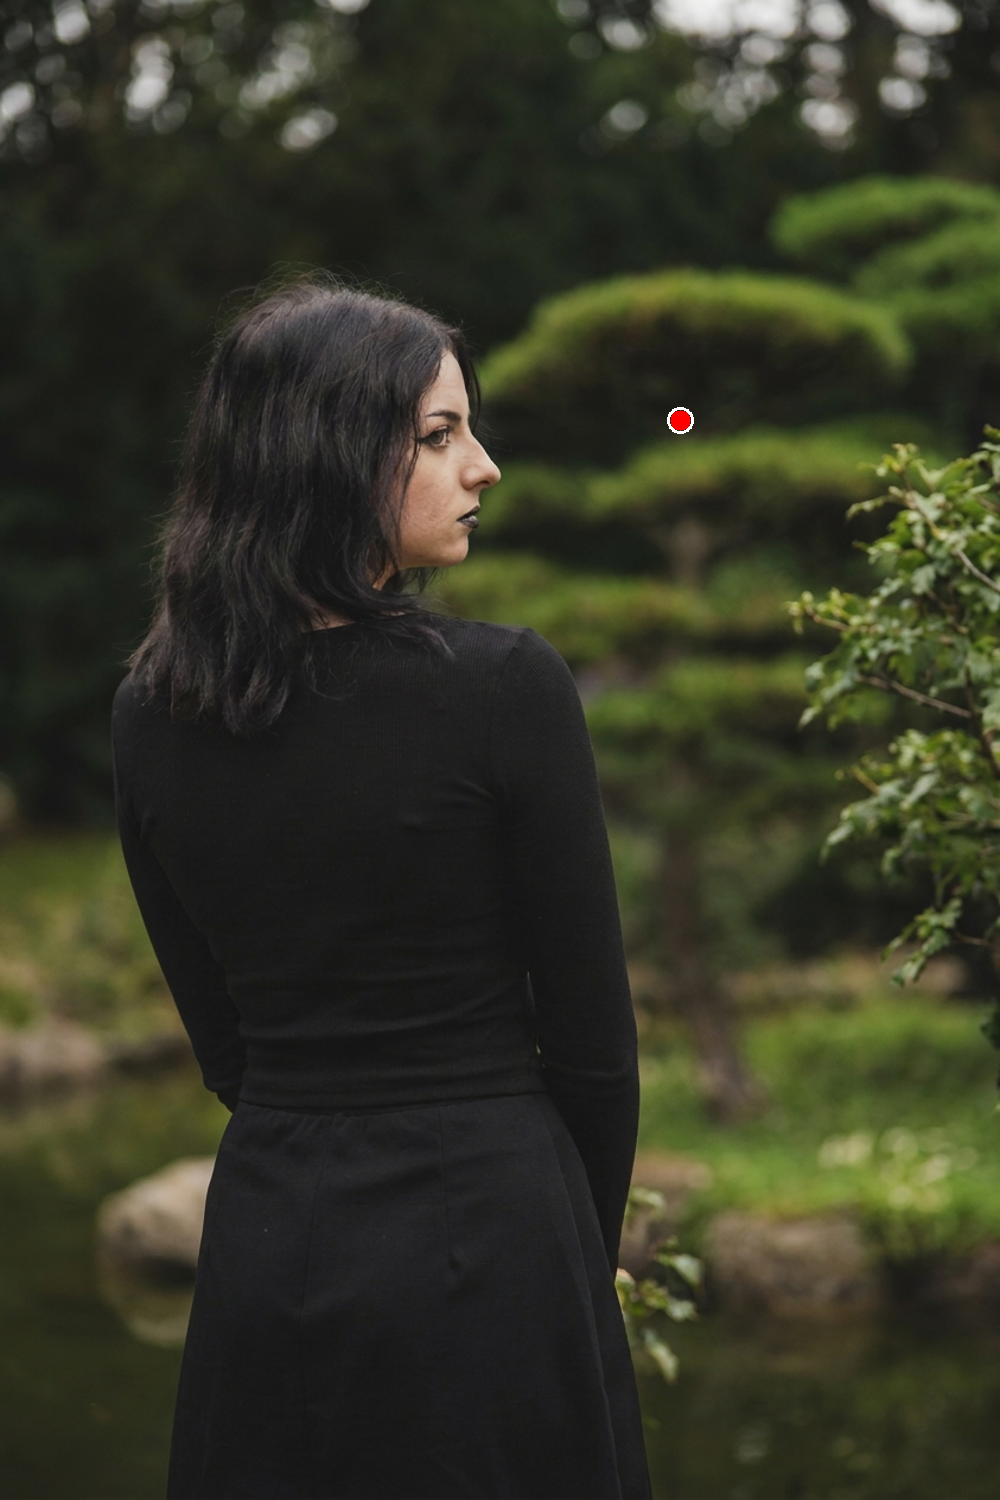
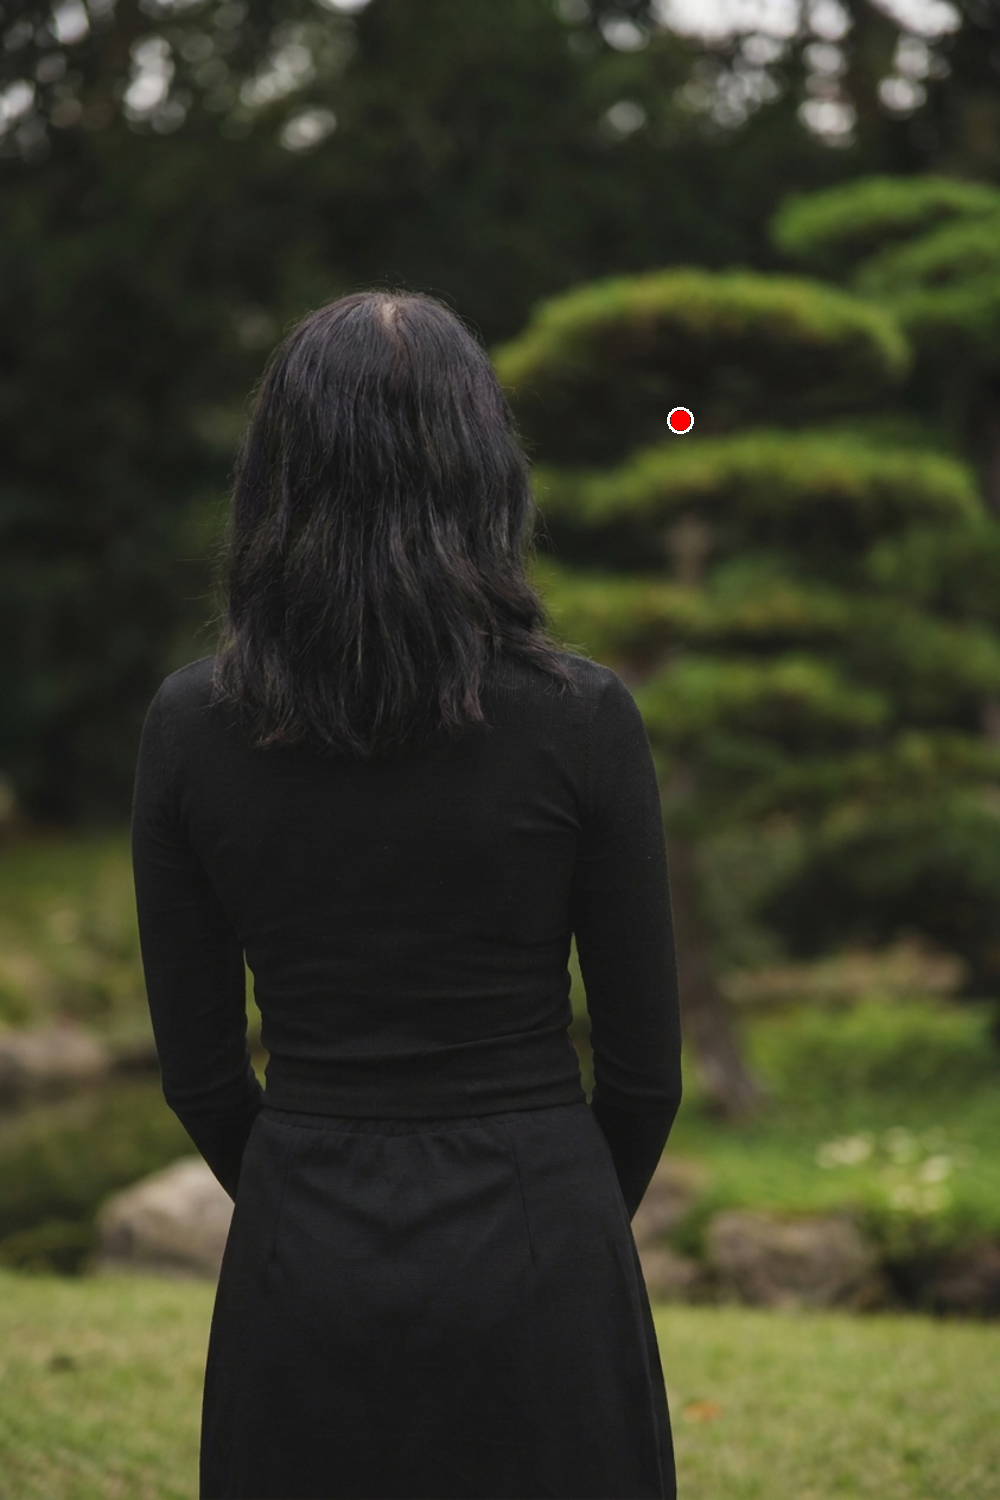
BEHIND-depth prompt now requires zero face visibility, not just a back-facing torso
Third revision of this clause: "back should face the camera" still let
Gemini turn the head sideways enough to show a profile. Now explicit that
the camera must see ONLY the back/crown of the head - no face, cheek, or
profile - matching what "the target is far behind them" should actually
look like. Verified against the depth-far ablation demo.

diff --git a/dataset_pipeline.py b/dataset_pipeline.py
@@ -266,14 +266,15 @@ def build_depth_aware_prompt(chosen_depth, person_depth, extra=""):
     )
     if rel == "BEHIND":
         prompt += (
-            "Because the target is so much farther away than the person, the only way "
-            "to actually look at it is to turn all the way around: the person must end "
-            "up with their BACK almost fully facing the camera, having rotated their "
-            "whole body away from its current orientation, with their head turned to "
-            "look toward the red dot, which now sits further ahead of them in this new "
-            "orientation, deeper into the scene. Do not just glance back over the "
-            "shoulder while staying mostly front-on to the camera — the body itself "
-            "must rotate away.\n"
+            "The target is so much farther away than the person that they must rotate "
+            "their ENTIRE head and body all the way around to face fully away from the "
+            "camera, looking straight ahead into the scene toward the target. The "
+            "camera must see ONLY the back/crown of their head and hair, and their full "
+            "back — absolutely NO part of their face, cheek, ear, or facial profile "
+            "should be visible. Do not turn the head sideways to glance back over the "
+            "shoulder; the whole body faces directly away from the camera, like someone "
+            "who has simply turned around to walk toward something in the distance and "
+            "is now seen entirely from behind.\n"
         )
     if extra:
         prompt += extra.strip() + "\n"

diff --git a/manual_process_path_e.py b/manual_process_path_e.py
@@ -224,14 +224,15 @@ def build_depth_aware_prompt(chosen_depth, person_depth, facing_away):
     )
     if rel == "BEHIND":
         prompt += (
-            "Because the target is so much farther away than the person, the only way "
-            "to actually look at it is to turn all the way around: the person must end "
-            "up with their BACK almost fully facing the camera, having rotated their "
-            "whole body away from its current orientation, with their head turned to "
-            "look toward the red dot, which now sits further ahead of them in this new "
-            "orientation, deeper into the scene. Do not just glance back over the "
-            "shoulder while staying mostly front-on to the camera — the body itself "
-            "must rotate away.\n"
+            "The target is so much farther away than the person that they must rotate "
+            "their ENTIRE head and body all the way around to face fully away from the "
+            "camera, looking straight ahead into the scene toward the target. The "
+            "camera must see ONLY the back/crown of their head and hair, and their full "
+            "back — absolutely NO part of their face, cheek, ear, or facial profile "
+            "should be visible. Do not turn the head sideways to glance back over the "
+            "shoulder; the whole body faces directly away from the camera, like someone "
+            "who has simply turned around to walk toward something in the distance and "
+            "is now seen entirely from behind.\n"
         )
     return prompt
 

diff --git a/README.md b/README.md
@@ -52,22 +52,22 @@ depth map — dark/purple = far, bright/yellow = near):
 | ![depth far result](assets/ablation/depth_far.png) | ![depth near result](assets/ablation/full.png) | ![no depth result](assets/ablation/no_depth_prompt.png) |
 
 Same 2D point, two clearly different outcomes: told the target is *far
-behind her*, she turns her whole body around — back almost fully to the
-camera — to look toward it; told the exact same screen position is *close,
-in front of her*, she only tilts her head/eyes up toward it, a smaller and
-less committed motion. Remove the depth image entirely and Gemini doesn't
-move her at all — a 2D point alone doesn't tell it whether "behind" is even
-a possibility.
+behind her*, she turns fully away — camera sees only the back of her
+head, no face at all — to look toward it; told the exact same screen
+position is *close, in front of her*, she only tilts her head/eyes up
+toward it, a smaller and less committed motion. Remove the depth image
+entirely and Gemini doesn't move her at all — a 2D point alone doesn't
+tell it whether "behind" is even a possibility.
 
-Getting the "BEHIND" case to reliably commit to that full turn took two
-rounds of prompt tuning, not one. A first pass asking for a turn "the way
-someone turns around when they hear their name called from behind" got a
-head-and-shoulders check over the shoulder — better than nothing, but she
-stayed mostly front-on to the camera, which isn't really what "the target
-is behind her" should look like. `build_depth_aware_prompt`'s `BEHIND`
-case now spells out the geometry explicitly: the person's *back* should
-end up facing the camera, with the red dot now effectively in front of
-them, deeper into the scene. That's the line shipped in both
+Getting the "BEHIND" case to actually commit to that took three rounds of
+prompt tuning, each one revealing the previous wasn't specific enough
+about the geometry: "turn around like your name was called" only got a
+head-and-shoulders check over the shoulder (still front-on to the camera);
+"back should face the camera" got a genuine turn, but she still turned her
+head sideways enough to show a face in profile. `build_depth_aware_prompt`'s
+`BEHIND` case now says explicitly that the camera must see *only* the back
+of the head — no face, cheek, or profile at all — which is what finally
+produced a clean result. That's the line shipped in both
 `manual_process_path_e.py` and `dataset_pipeline.py`, not just used for
 this demo.
 
